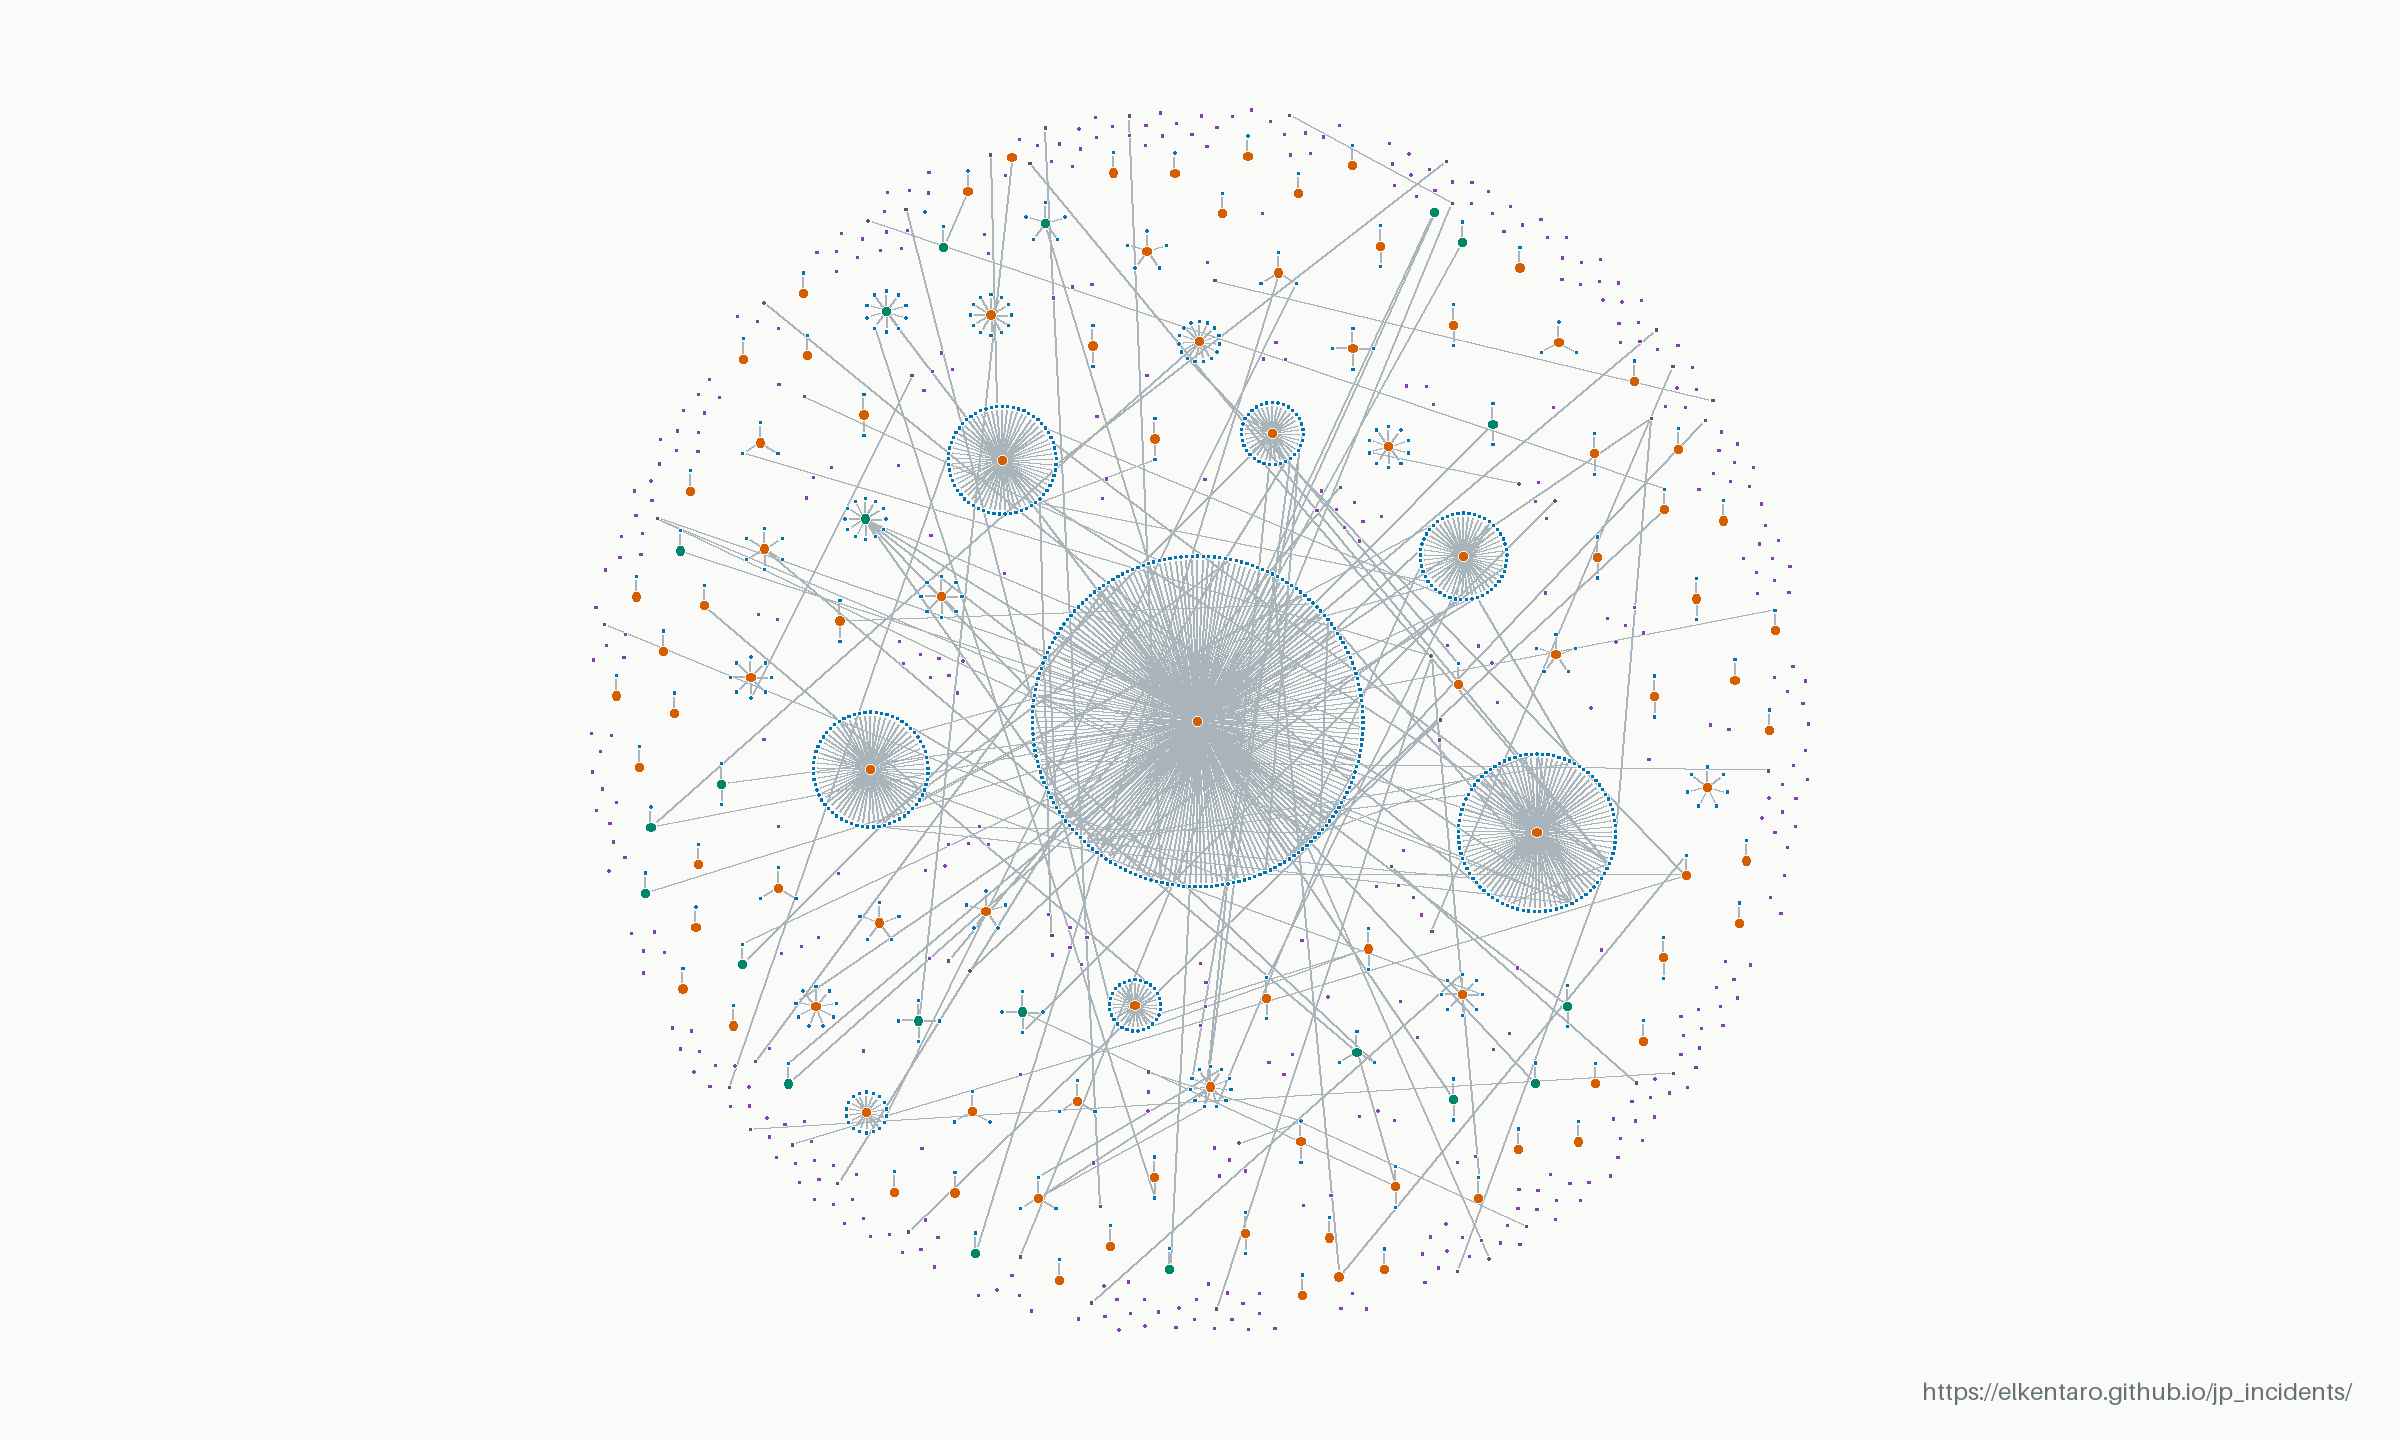
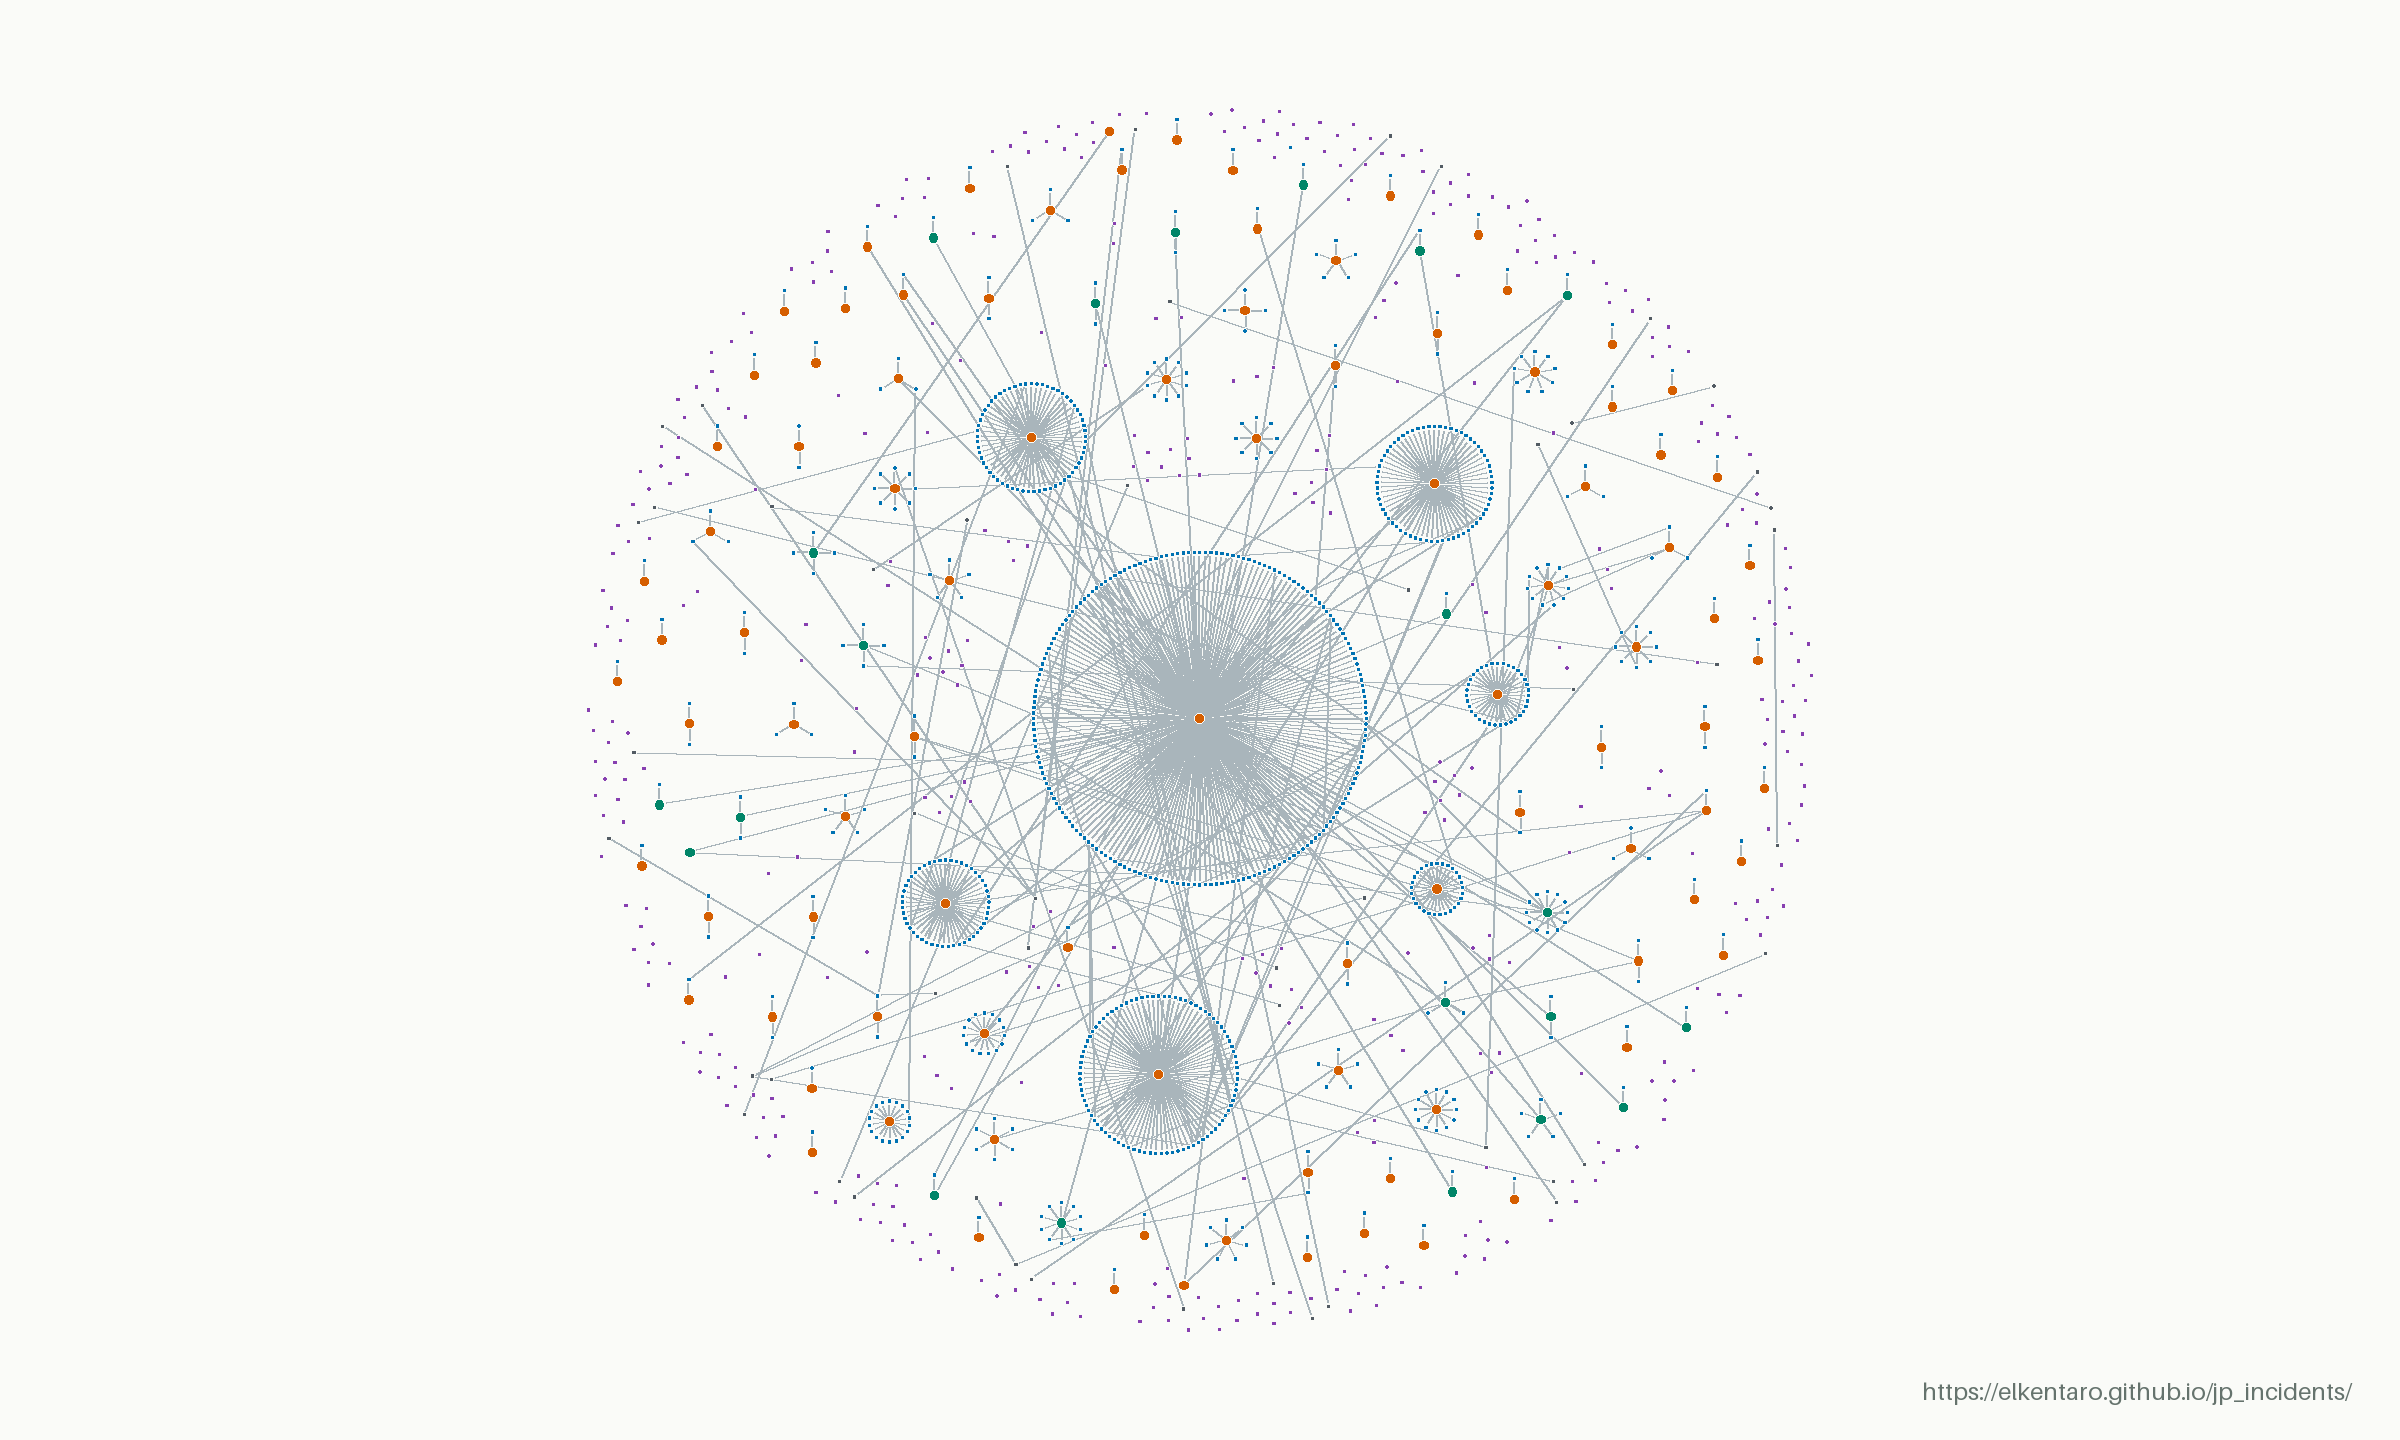
Update incident data (2026-11-18 04:19 UTC)

Changed region(s): [[0.2812, 0.0938, 0.7188, 0.9062]]

diff --git a/linkage.html b/linkage.html
@@ -32,31 +32,31 @@
     </section>
     <section class="direct-summary" aria-labelledby="direct-title">
       <dl class="direct-stats">
-        <div class="direct-total"><dt id="direct-title" data-copy="direct">Direct incidents</dt><dd id="direct-count">548</dd></div>
+        <div class="direct-total"><dt id="direct-title" data-copy="direct">Direct incidents</dt><dd id="direct-count">549</dd></div>
         <div><dt data-copy="directUpstream">Upstream incidents</dt><dd id="upstream-count">94</dd></div>
-        <div><dt data-copy="directStandalone">Standalone incidents</dt><dd id="standalone-count">454</dd></div>
+        <div><dt data-copy="directStandalone">Standalone incidents</dt><dd id="standalone-count">455</dd></div>
       </dl>
-      <p class="direct-excluded"><strong id="downstream-count">829</strong> <span data-copy="directExcluded">downstream records excluded, including incidents with both roles.</span></p>
+      <p class="direct-excluded"><strong id="downstream-count">830</strong> <span data-copy="directExcluded">downstream records excluded, including incidents with both roles.</span></p>
       <p class="direct-definition" data-copy="directDefinition">Direct incidents = upstream + standalone, based on recorded causal links. Standalone incidents have no upstream or downstream causal links, but may have other links, such as separate events at the same organization.</p>
     </section>
     <dl class="map-stats">
-      <div><dt data-copy="total">Incidents in snapshot</dt><dd>1377</dd></div>
-      <div><dt data-copy="linked">With recorded connections</dt><dd>970</dd></div>
-      <div><dt data-copy="links">Recorded connections</dt><dd>937</dd></div>
-      <div><dt data-copy="networks">Connected networks</dt><dd>77</dd></div>
+      <div><dt data-copy="total">Incidents in snapshot</dt><dd>1379</dd></div>
+      <div><dt data-copy="linked">With recorded connections</dt><dd>973</dd></div>
+      <div><dt data-copy="links">Recorded connections</dt><dd>939</dd></div>
+      <div><dt data-copy="networks">Connected networks</dt><dd>78</dd></div>
     </dl>
     <figure class="map-figure">
       <div class="map-image">
         <img src="data/linkage-map.png" width="2400" height="1440" alt="Anonymized incident map. Orange upstream hubs connect to blue downstream incidents; purple unlinked incidents appear throughout the same map without connecting lines." data-copy-alt="alt">
       </div>
       <figcaption>
-        <div class="map-caption-meta"><span><span data-copy="updated">Last updated</span>: <time datetime="2026-11-18T03:16:31.393896+00:00">2026-11-18 03:16 UTC</time></span><a href="data/linkage-map.png" target="_blank" rel="noopener" data-copy="open">Open full-resolution image ↗</a></div>
+        <div class="map-caption-meta"><span><span data-copy="updated">Last updated</span>: <time datetime="2026-11-18T04:18:03.041778+00:00">2026-11-18 04:18 UTC</time></span><a href="data/linkage-map.png" target="_blank" rel="noopener" data-copy="open">Open full-resolution image ↗</a></div>
         <div class="map-key-section">
           <strong id="map-key-title" data-copy="key">Key</strong>
           <ul class="map-key" aria-labelledby="map-key-title">
             <li><span class="key-dot upstream" aria-hidden="true"></span><span data-copy="keyUpstream">Upstream</span></li>
             <li><span class="key-dot downstream" aria-hidden="true"></span><span data-copy="keyDownstream">Downstream</span></li>
-            <li><span class="key-dot standalone" aria-hidden="true"></span><span data-copy="keyStandalone">Unlinked</span><span>(407)</span></li>
+            <li><span class="key-dot standalone" aria-hidden="true"></span><span data-copy="keyStandalone">Unlinked</span><span>(406)</span></li>
             <li><span class="key-dot both" aria-hidden="true"></span><span data-copy="keyBoth">Both roles</span></li>
             <li><span class="key-dot related" aria-hidden="true"></span><span data-copy="keyRelated">Other related</span></li>
             <li><span class="key-line" aria-hidden="true"></span><span data-copy="keyRelationship">Recorded relationship</span></li>
@@ -69,7 +69,7 @@
       <section><h2 data-copy="readingTitle">Reading the map</h2><p data-copy="reading">Orange marks upstream incidents, blue downstream incidents, and purple unlinked incidents with no recorded connection. Teal marks incidents with both upstream and downstream roles; charcoal marks other related incidents. A missing connection does not establish that two incidents are unrelated.</p></section>
       <section><h2 data-copy="snapshotTitle">About this snapshot</h2><p data-copy="snapshot">The static image is refreshed when published incidents or relationships change, and at least every 24 hours during normal publication. Larger upstream clusters have extra spacing to keep their victims apart. Names, incident IDs, source links and incident dates are omitted; the connection pattern is retained. It is an overview of recorded relationships, not a complete map of cyber incidents in Japan.</p></section>
     </div>
-    <p class="map-source"><span data-copy="sourceUpdated">Source data updated</span>: <time datetime="2026-11-18T03:16:31+00:00">2026-11-18T03:16:31+00:00</time> · <a href="./" data-copy="browse">Browse the incident index</a></p>
+    <p class="map-source"><span data-copy="sourceUpdated">Source data updated</span>: <time datetime="2026-11-18T04:18:02+00:00">2026-11-18T04:18:02+00:00</time> · <a href="./" data-copy="browse">Browse the incident index</a></p>
   </main>
   <footer><div class="shell footer-inner"><p data-copy="footer">Public reports. Recorded relationships. An anonymized overview.</p><a href="./" data-copy="back">Back to incidents</a></div></footer>
   <script src="linkage.js?v=20261107-spacing" defer></script>
